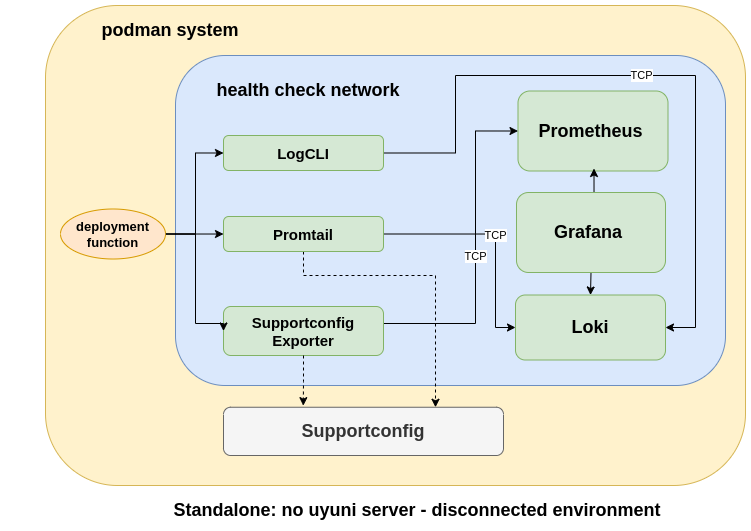
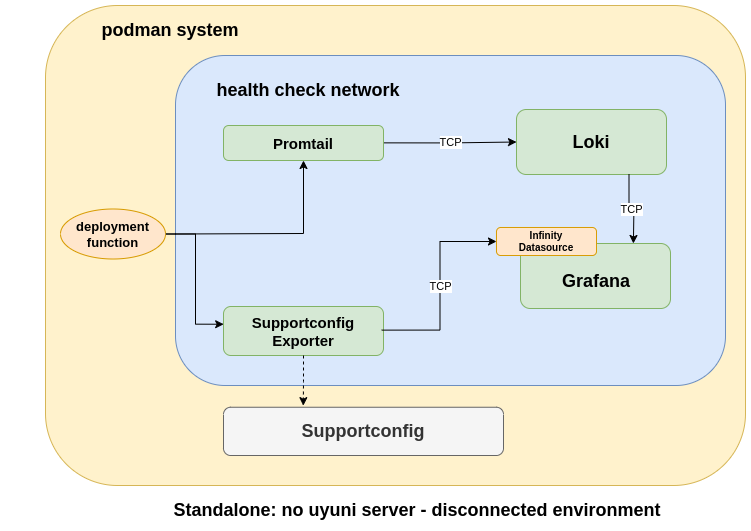
Aligin disconnected design with implementation

diff --git a/accepted/00101-health-check-tool.md b/accepted/00101-health-check-tool.md
@@ -39,7 +39,7 @@ As an engineer responsible for maintaining the Uyuni codebase, I want to efficie
 
 ## Component Overview
 
-### Health-Check-Tool
+### Health-Check
 
 * Loki/Promtail: These two components are for log aggregation, indexing and querying. Loki acts as the centralized logging system, storing and managing logs, while Promtail is deployed on the Uyuni server to collect logs and forward them to Loki.
 
@@ -48,8 +48,6 @@ As an engineer responsible for maintaining the Uyuni codebase, I want to efficie
 * Uyuni-Health-Exporter: A custom exporter to gather specific metrics related to Uyuni server health, including database, service status, and resource usage.
 
 * Alerting System: Leveraging Loki and Prometheus alerting mechanism, configured to monitor critical metrics and log patterns, triggering alerts based on predefined thresholds. Using Alertmanager for sending notifications.
-
-* LogCLI: A command-line interface tool provided by Loki, LogCLI enables direct querying of logs stored in Loki from the terminal. It supports running LogQL queries, live tailing of logs, and viewing logs in a flexible output format. This tool is particularly useful for administrators and developers who prefer to work within a CLI environment for quick log searches, debugging, and log analysis without the need for a graphical interface.
 
 Proof-of-Concept: https://github.com/uyuni-project/poc-uyuni-health-check
 
@@ -65,7 +63,7 @@ This RFC proposes the following solutions:
 
 ### Integrated solution: extending existing monitoring stack
 
-* Monitoring Formula Integration: Loki/Promtail and `uyuni_health_exporter` configurations are managed via Uyuni's monitoring formula, ensuring seamless integration and ease of deployment. Making Saline and Health Check a part of the current Monitoring formulas.
+* Monitoring Formula Integration: Loki/Promtail and Uyuni-Health-Exporter configurations are managed via Uyuni's monitoring formula, ensuring seamless integration and ease of deployment. Making Saline and Health-Check a part of the current Monitoring formulas.
 
 * Additional Monitoring Formulas: Similar to the previous approach, integration with current Monitoring stack but using a separated formulas.
 
@@ -73,7 +71,7 @@ This RFC proposes the following solutions:
 
 ### Standalone solution: containerized deployment including Loki, Promtail and Grafana
 
-* Containerized Deployment: The Health-Check-Tool components, including Loki, Promtail, Grafana, and the Uyuni-Health-Exporter, are deployed as containers sharing the same network, allowing TCP communication between containers. Running all containers within the same POD would be also possible, but it would limit the deployment method on Kubernetes to be running all on the same cluster node.
+* Containerized Deployment: The Health-Check components, including Loki, Promtail, Grafana, and the Uyuni-Health-Exporter, are deployed as containers sharing the same network, allowing TCP communication between containers. Running all containers within the same POD would be also possible, but it would limit the deployment method on Kubernetes to be running all on the same cluster node.
 
 ![standalone diagram](images/health-check/standalone.png)
 
@@ -89,12 +87,15 @@ This RFC proposes the following solutions:
 
 ### Disconnected solution: containerized deployment without access to an Uyuni server (via supportconfig)
 
-No access to an Uyuni server or existing monitoring stack, only access to a supportconfig.
+No access to an Uyuni server or existing monitoring stack, only access to a supportconfig. The Infinity Datasource Plugin is installed in Grafana. This Datasource pulls metrics data from the Supportconfig-Exporter endpoints.
 
 ![standalone disconnected diagram](images/health-check/standalone-disconnected.png)
 
+## Components
 
-### Component 1: Uyuni-Health-Exporter
+### Component 1: Exporters
+
+#### Uyuni-Health-Exporter
 
 Goal: Configure the Uyuni-Health-Exporter to gather metrics from the Uyuni server and managed systems. The Uyuni-Health-Exporter uses Salt runners to gather metrics.
 
@@ -103,6 +104,13 @@ Steps:
   - Deploy the Uyuni-Health-Exporter as a containerized application.
   - Ensure the Uyuni-Health-Exporter is accessible for Prometheus to scrape metrics.
   - Ensure the Uyuni-Health-Exporter can run Salt runner commands targeting the server.
+
+#### Supportconfig-Exporter (disconected solution)
+
+Steps:
+
+  - Deploy the Supportconfig-Exporter as a containerized application.
+  - Ensure the Supportconfig-Exporter is accessible for the Infinity Datasource Plugin to scrape metrics.
 
 ### Component 2: Prometheus
 
@@ -147,11 +155,8 @@ Steps:
     - Edit the Promtail configuration to define the paths of log files to monitor. In the containerized Uyuni environment, the Promtail container must be configured to have read access to mapped volumes that correspond to the log locations of the Uyuni server container.
     - Configure Promtail to forward logs to the Loki instance.
 
-### Component 5: LogCLI
-Goal: Incorporate LogCLI to provide a command-line interface for querying logs stored in Loki, enhancing the toolset available for diagnostics, troubleshooting and operational reporting.
 
-
-### Component 6: Supportconfig metrics gatherer
+### Component 5: Supportconfig metrics gatherer
 
 Stakeholders: Engineers and Supporters
 
@@ -159,7 +164,7 @@ Goal: Extract relevant metrics from supportconfig files.
 
 Configuration: No extra configuration needed apart from the path to the supportconfig files.
 
-### Component 7: Saline
+### Component 6: Saline
 
 Configuration: Deploy as a monitoring formula.
 
@@ -171,8 +176,8 @@ Configuration: Deploy as a monitoring formula.
 * Notification Channels: Configured within Alertmanager to support various notification mechanisms.
 
 * Alerts and Recommendations via Loki:
-    * Loki Querying: Utilize the Loki API to query log data for patterns indicative of issues or anomalies. This requires crafting LogQL queries tailored to the types of issues Uyuni Health-Check-Tool aims to detect.
-    * Alert Generation: Employ the Loki Ruler component to define alerting rules. These rules can be dynamically generated or updated based on the Uyuni Health-Check-Tool configuration, allowing for customizable alert conditions.
+    * Loki Querying: Utilize the Loki API to query log data for patterns indicative of issues or anomalies. This requires crafting LogQL queries tailored to the types of issues Uyuni Health-Check Tool aims to detect.
+    * Alert Generation: Employ the Loki Ruler component to define alerting rules. These rules can be dynamically generated or updated based on the Uyuni Health-Check Tool configuration, allowing for customizable alert conditions.
 
 * Implementing alerts and recommendations involve:
     * Defining LogQL Queries: Writing LogQL queries that match the relevant conditions.
@@ -237,7 +242,7 @@ When the tool has access to an Uyuni server, it can run either "standalone" or v
 
 
 # Security considerations
-In the current design, we are exposing metrics via Prometheus and making them available in Grafana, and more importantly we are exposing log messages via Loki/LogCLI to CLI and Grafana users. It is important to notice that after running this tool, and until related containers are destroyed, the Grafana Dashboards (and other components like Prometheus and Loki/LogCLI) are exposing metrics and log messages that may contain sensitive data and information to any non-root user on the system or to anyone that have access to this host in the network.
+In the current design, we are exposing metrics via Prometheus and making them available in Grafana, and more importantly we are exposing log messages via Loki to CLI and Grafana users. It is important to notice that after running this tool, and until related containers are destroyed, the Grafana Dashboards (and other components like Prometheus and Loki) are exposing metrics and log messages that may contain sensitive data and information to any non-root user on the system or to anyone that have access to this host in the network.
 
 The Promtail pipeline definition can be enhanced to use the [replace](https://grafana.com/docs/loki/latest/send-data/promtail/stages/replace/) stage in order to hide sensitive data from log files. Users must have a configuration file to define the different filters to apply to the Promtail pipeline. Filters must be also configurable via the Monitoring Formula.
 
